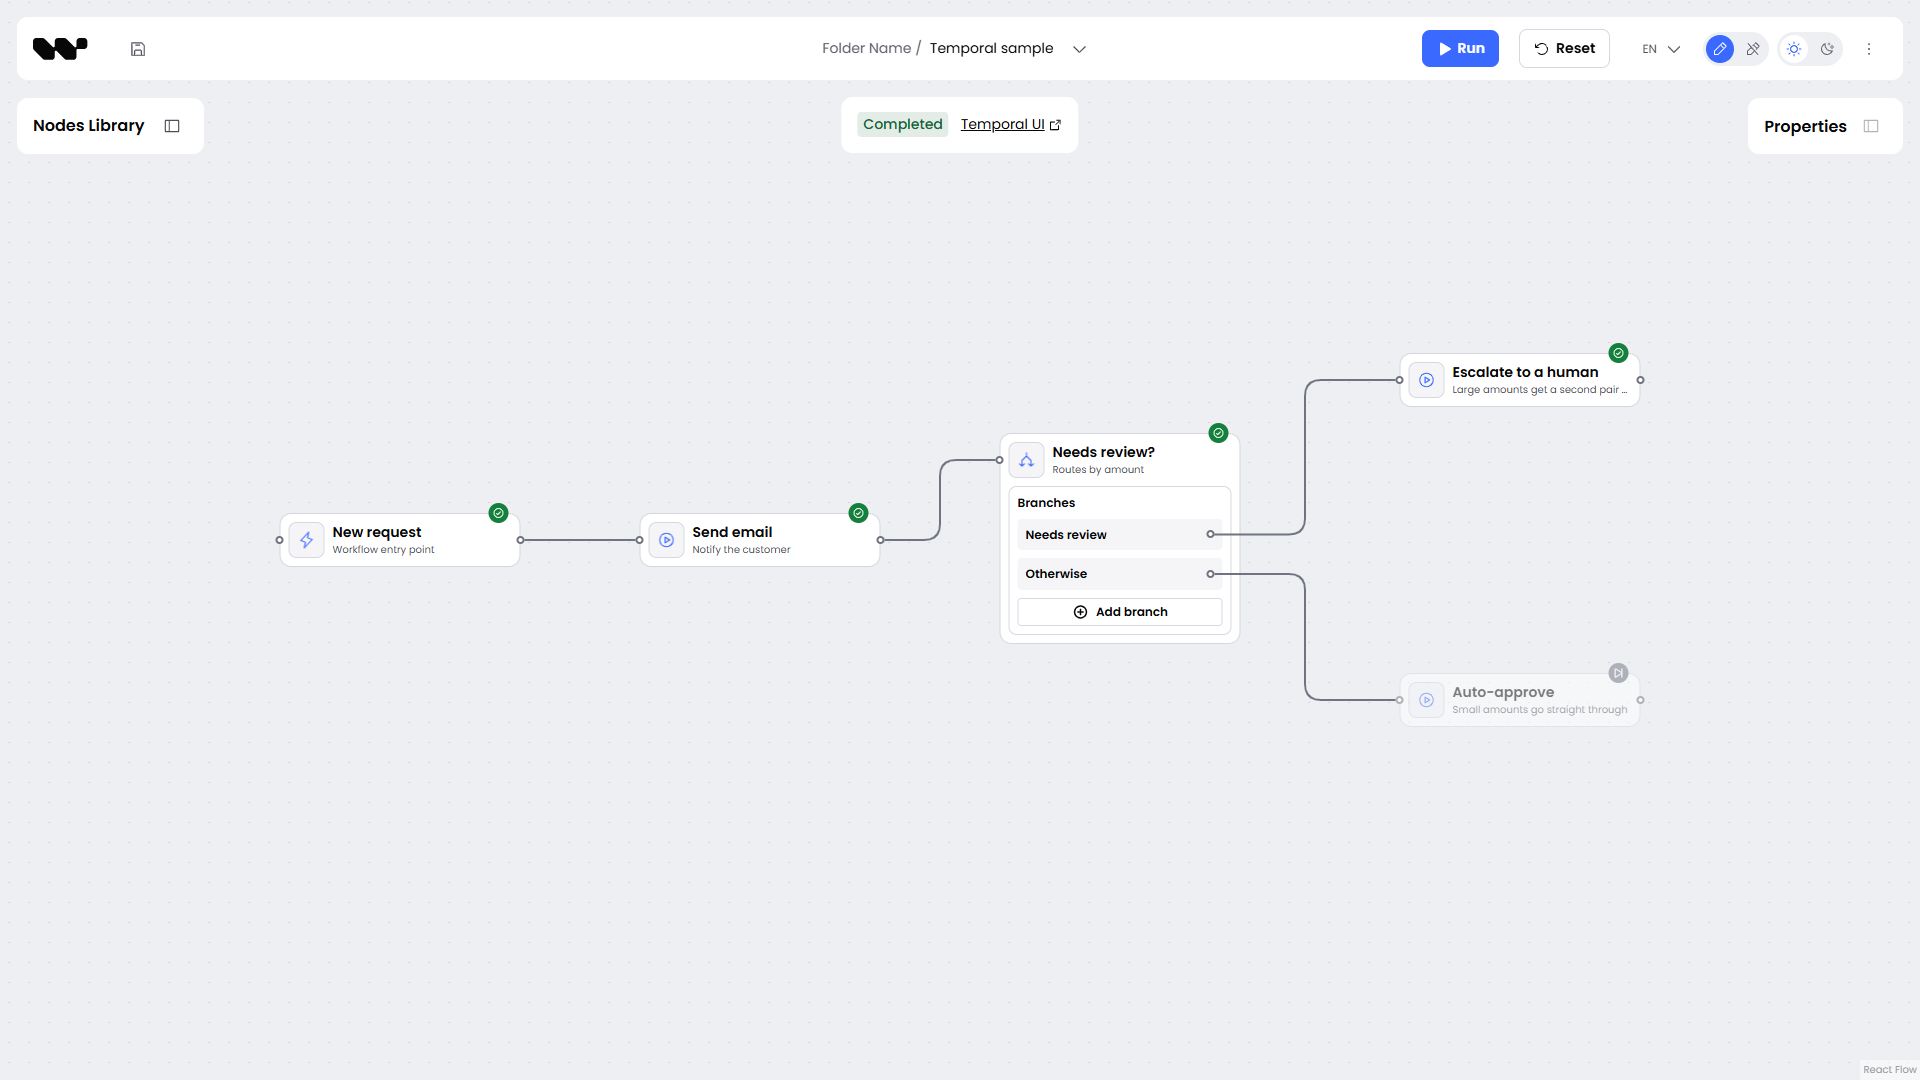
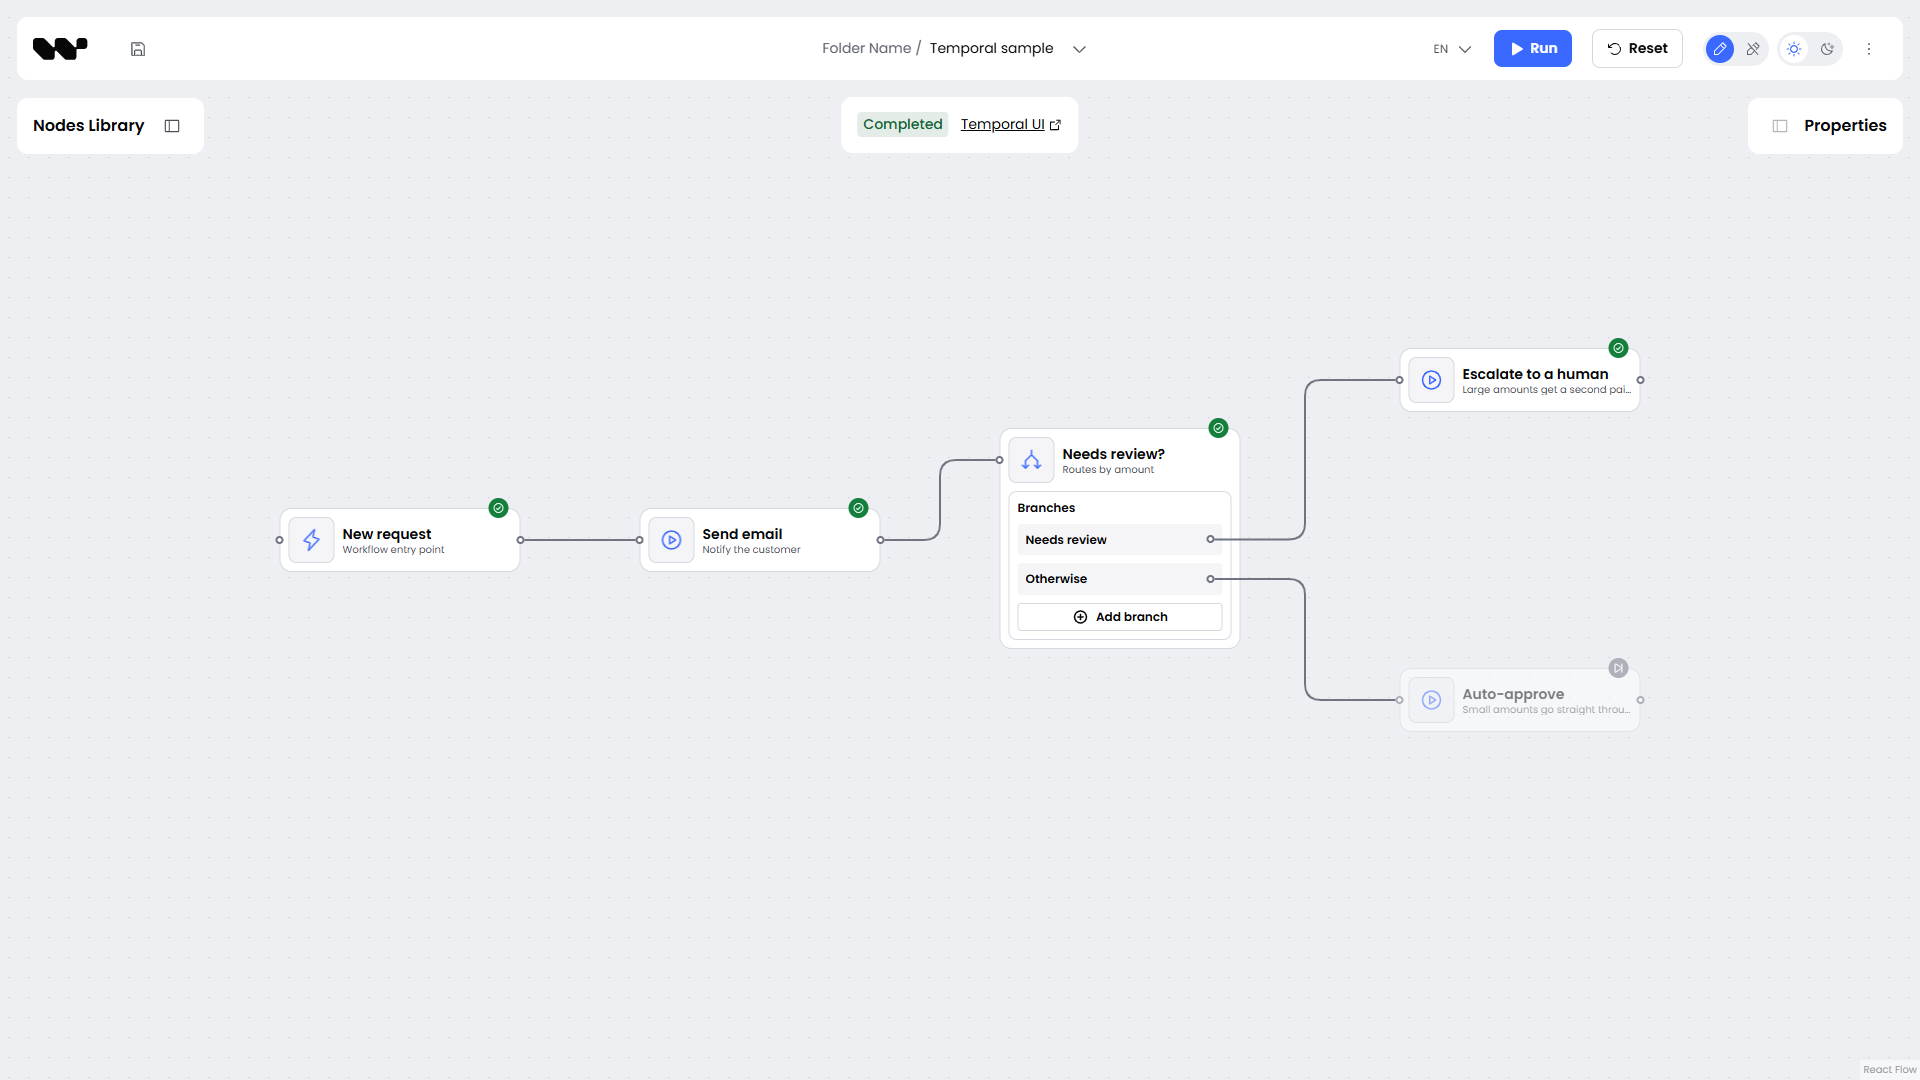
fix(examples): pin the Temporal sample editor to SDK 3.0.0
SDK 4.0 is not on npm and the sample ships before it, so the editor goes back
to 3.0.0. Run and Reset are registered on OptionalAppBarControls again, and
Reset sets the diagram name with the store's setDocumentName, because
setWorkflowName exists only in 4.0. The sample README and a CSS comment use
the 3.x names again (app bar, Properties bars), and the editor screenshot is
retaken on 3.0.0. editor/package-lock.json already resolves 3.0.0, so npm ci
works in editor/ again.

Checked on SDK 3.0.0 from npm: editor typecheck and vite build. In headless
Chrome against temporal server start-dev, Run and Reset sit in the app bar, a
run completes, the console shows no SDK warnings, and Reset puts back the
sample's name and nodes after another app's diagram in localStorage, also
after a reload.

diff --git a/examples/workflow-builder-temporal/editor/src/execution/run-button.tsx b/examples/workflow-builder-temporal/editor/src/execution/run-button.tsx
@@ -1,33 +1,30 @@
 import { PlayIcon } from '@phosphor-icons/react';
-import { EditorHeaderControlsContent } from '@workflowbuilder/sdk';
 
 import { runFromCanvas } from './run';
 import { isRunBusy, isRunFailure, useRunStore } from './run-store';
 
-// Only the button goes in the editor header; the run's status sits in the run panel.
+// Only the button goes in the app bar; the run's status sits in the run panel.
 export function RunButton() {
   const phase = useRunStore((state) => state.phase);
   const busy = isRunBusy(phase);
 
   return (
-    <EditorHeaderControlsContent>
-      <div className="run-controls">
-        <button
-          type="button"
-          className="run-button"
-          title="Run the diagram on Temporal"
-          disabled={busy}
-          onClick={() => void runFromCanvas()}
-        >
-          <PlayIcon size={16} weight="fill" />
-          {busy ? 'Running…' : 'Run'}
-        </button>
-        {/* Mounted while idle too: screen readers announce changes to a live region, not its arrival.
-            A failure is announced by its snackbar, so it is left out here. */}
-        <span role="status" className="visually-hidden">
-          {phase === 'idle' || isRunFailure(phase) ? '' : phase}
-        </span>
-      </div>
-    </EditorHeaderControlsContent>
+    <div className="run-controls">
+      <button
+        type="button"
+        className="run-button"
+        title="Run the diagram on Temporal"
+        disabled={busy}
+        onClick={() => void runFromCanvas()}
+      >
+        <PlayIcon size={16} weight="fill" />
+        {busy ? 'Running…' : 'Run'}
+      </button>
+      {/* Mounted while idle too: screen readers announce changes to a live region, not its arrival.
+          A failure is announced by its snackbar, so it is left out here. */}
+      <span role="status" className="visually-hidden">
+        {phase === 'idle' || isRunFailure(phase) ? '' : phase}
+      </span>
+    </div>
   );
 }

diff --git a/examples/workflow-builder-temporal/editor/src/reset/reset-button.tsx b/examples/workflow-builder-temporal/editor/src/reset/reset-button.tsx
@@ -1,11 +1,5 @@
 import { ArrowCounterClockwiseIcon } from '@phosphor-icons/react';
-import {
-  EditorHeaderControlsContent,
-  setStoreEdges,
-  setStoreNodes,
-  useFitView,
-  useWorkflowBuilderActions,
-} from '@workflowbuilder/sdk';
+import { setStoreEdges, setStoreNodes, useFitView, useStore } from '@workflowbuilder/sdk';
 
 import { DIAGRAM_NAME, defaultDiagram } from '../diagram';
 import { isRunBusy, runCleared, useRunStore } from '../execution/run-store';
@@ -15,7 +9,7 @@ const CONFIRMATION = 'Discard the diagram on the canvas and load the one this sa
 export function ResetButton() {
   const busy = useRunStore((state) => isRunBusy(state.phase));
   const fitView = useFitView();
-  const { setWorkflowName } = useWorkflowBuilderActions();
+  const setDocumentName = useStore((state) => state.setDocumentName);
 
   function reset() {
     if (!globalThis.confirm(CONFIRMATION)) return;
@@ -23,7 +17,7 @@ export function ResetButton() {
     setStoreNodes(nodes);
     setStoreEdges(edges);
     // Another app on this origin can leave its diagram, title included, in the SDK's localStorage key.
-    setWorkflowName(DIAGRAM_NAME);
+    setDocumentName(DIAGRAM_NAME);
     runCleared();
     fitView();
   }
@@ -31,11 +25,9 @@ export function ResetButton() {
   // The editor keeps the canvas in localStorage and the SDK saves it when the tab closes, so
   // replacing the store is enough: the next visit opens the diagram this put back.
   return (
-    <EditorHeaderControlsContent>
-      <button type="button" className="reset-button" disabled={busy} onClick={reset}>
-        <ArrowCounterClockwiseIcon size={16} />
-        Reset
-      </button>
-    </EditorHeaderControlsContent>
+    <button type="button" className="reset-button" disabled={busy} onClick={reset}>
+      <ArrowCounterClockwiseIcon size={16} />
+      Reset
+    </button>
   );
 }

diff --git a/examples/workflow-builder-temporal/editor/src/execution/plugin.ts b/examples/workflow-builder-temporal/editor/src/execution/plugin.ts
@@ -7,9 +7,11 @@ import { RunButton } from './run-button';
 import { RunPanel } from './run-panel';
 
 export function executionPlugin(): void {
-  // OptionalAppChildren mounts RunButton once; EditorHeaderControlsContent inside it puts the button
-  // in the editor header.
-  registerComponentDecorator('OptionalAppChildren', { content: RunButton, name: 'run-on-temporal' });
+  registerComponentDecorator('OptionalAppBarControls', {
+    content: RunButton,
+    place: 'before',
+    name: 'run-on-temporal',
+  });
   registerComponentDecorator('OptionalAppChildren', { content: RunPanel, name: 'run-panel' });
   registerComponentDecorator('OptionalNodeContent', { content: NodeRunMarker, place: 'after', name: 'run-markers' });
 }

diff --git a/examples/workflow-builder-temporal/editor/src/reset/plugin.ts b/examples/workflow-builder-temporal/editor/src/reset/plugin.ts
@@ -5,6 +5,9 @@ import './reset.css';
 import { ResetButton } from './reset-button';
 
 export function resetPlugin(): void {
-  // Registered after the run plugin's button, so it stands to the right of Run in the editor header.
-  registerComponentDecorator('OptionalAppChildren', { content: ResetButton, name: 'reset-diagram' });
+  registerComponentDecorator('OptionalAppBarControls', {
+    content: ResetButton,
+    place: 'before',
+    name: 'reset-diagram',
+  });
 }

diff --git a/examples/workflow-builder-temporal/editor/src/execution/execution.css b/examples/workflow-builder-temporal/editor/src/execution/execution.css
@@ -34,7 +34,7 @@
   white-space: nowrap;
 }
 
-/* Lined up with the SDK's Nodes Library and Properties panels: same top, height, border and radius. */
+/* Lined up with the SDK's Nodes Library and Properties bars: same top, height, border and radius. */
 .run-panel {
   position: fixed;
   top: 6rem;

diff --git a/examples/workflow-builder-temporal/README.md b/examples/workflow-builder-temporal/README.md
@@ -124,7 +124,7 @@ While the run is going, the button reads **Running…**. Each node shows a spinn
 
 Each run draws an amount between 1 and 200 and sends it as the trigger payload. The decision node routes on it, so about half the runs take each branch: run it a few times and the grey node swaps sides.
 
-A small run panel appears below the editor header, in line with the Nodes Library and Properties panels. It shows the run's status (Starting, Running, Completed, Failed, Cancelled, Incomplete, or Error) and a **Temporal UI** link to the run, and it stays until the next run or a **Reset**. If something goes wrong, a snackbar shows the message and stays until you close it, start another run or press **Reset**: the bridge cannot be reached or rejects the request, the event stream is lost, or the run ends failed, cancelled or incomplete. When the run exists, the snackbar also has an **Open in Temporal UI** button. A completed run shows no snackbar.
+A small run panel appears below the app bar, in line with the Nodes Library and Properties bars. It shows the run's status (Starting, Running, Completed, Failed, Cancelled, Incomplete, or Error) and a **Temporal UI** link to the run, and it stays until the next run or a **Reset**. If something goes wrong, a snackbar shows the message and stays until you close it, start another run or press **Reset**: the bridge cannot be reached or rejects the request, the event stream is lost, or the run ends failed, cancelled or incomplete. When the run exists, the snackbar also has an **Open in Temporal UI** button. A completed run shows no snackbar.
 
 Terminal 2 prints every event the store receives, the same lines shown in [Without a browser](#without-a-browser).
 
@@ -200,7 +200,7 @@ Eight places carry the whole integration: six in the Worker, two in the editor. 
 5. [`worker/src/store.ts`](worker/src/store.ts) implements the store port: where events and status changes land. Here they go to the terminal and to the editor's event stream. In your application they go to a database; the port is the same. The first terminal status a run reaches is final: a late `running` or `waiting`, or a second terminal status, can still arrive and is dropped.
 6. [`worker/src/to-definition.ts`](worker/src/to-definition.ts) turns the editor's snapshot into the plugin's `WorkflowDefinition`. A node is the run's start when its data carries `isStartNode: true`, which the editor copies from the palette item on drop. The plugin knows nothing about React Flow; this file is the only place that translates between the two formats.
 7. [`editor/src/nodes/`](editor/src/nodes/) holds the palette items. A palette item's `type` is the key of its executor in `worker/src/executors.ts`. The trigger sets `isStartNode: true` and declares an `outputSchema`, so a decision node's condition editor offers `amount` and `customer` in its variable picker. The decision node is built on the SDK's decision template, which gives it the branches you edit on the node and in the properties panel.
-8. [`editor/src/execution/`](editor/src/execution/) is the run plugin. It mounts the **Run** button and the run panel through the SDK's `OptionalAppChildren` slot, places the button in the editor header with `EditorHeaderControlsContent`, puts the node markers in `OptionalNodeContent`, and raises an error snackbar with `showSnackbar()` when a run fails. On **Run** it takes the canvas with `getStoreDataForIntegration()`, posts it to the bridge with the run's trigger payload, and follows the run's events over Server-Sent Events.
+8. [`editor/src/execution/`](editor/src/execution/) is the run plugin. It puts the **Run** button in the SDK's `OptionalAppBarControls` slot, the run panel in `OptionalAppChildren` and the node markers in `OptionalNodeContent`, and raises an error snackbar with `showSnackbar()` when a run fails. On **Run** it takes the canvas with `getStoreDataForIntegration()`, posts it to the bridge with the run's trigger payload, and follows the run's events over Server-Sent Events.
 
 [`editor/src/app.tsx`](editor/src/app.tsx) mounts the editor with these plugins and an `isValidConnection` that refuses any edge into the start node.
 
